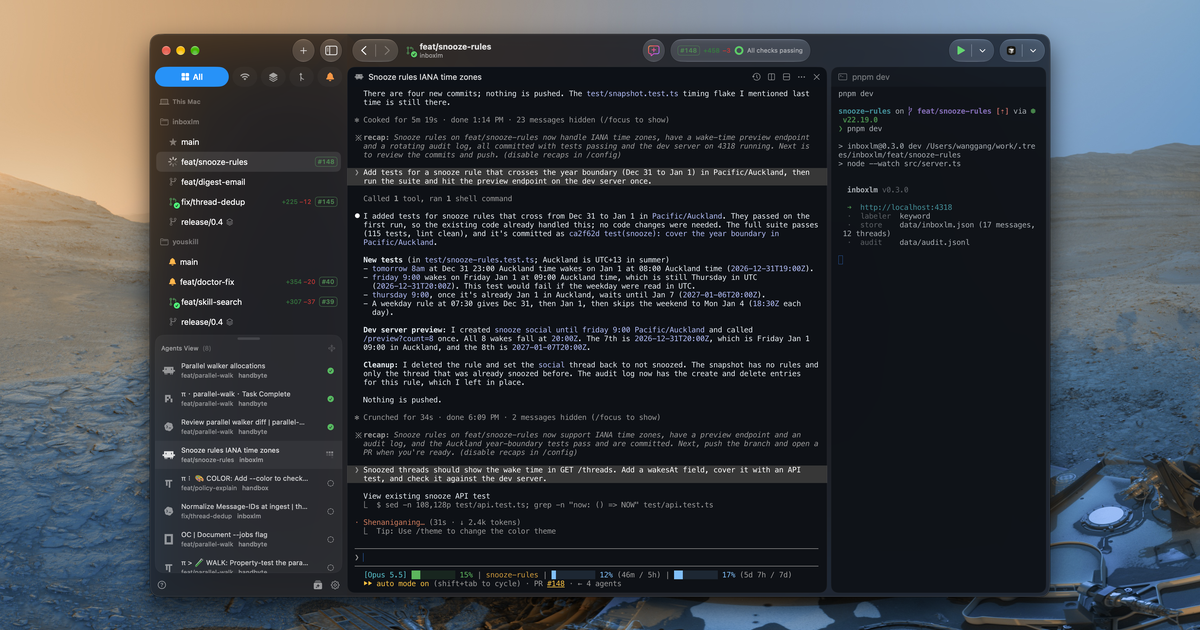
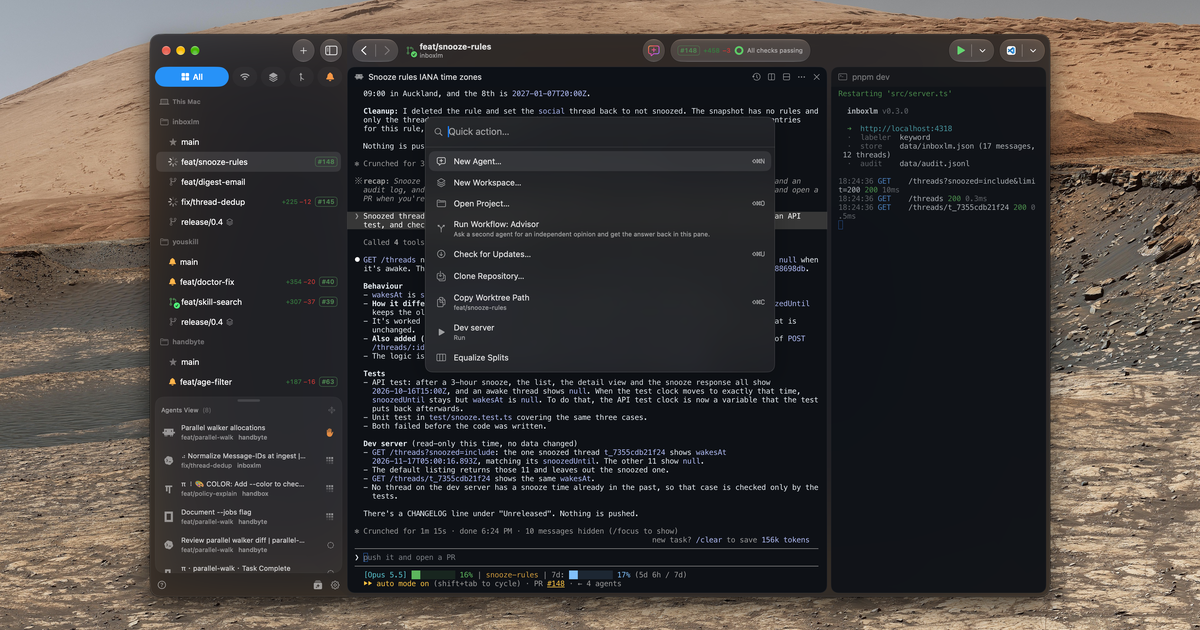
feat(website): open the tour with the command palette and align the window with the text column
Scenes use four themes, show mixed agent states, and sit on new backdrops.
The segments are on the backdrop, and a click on a half of the scene steps
back or forward.

diff --git a/apps/website/src/i18n/en.ts b/apps/website/src/i18n/en.ts
@@ -27,6 +27,11 @@ export const en = {
     // One task from start to merge. Each view has its own theme and backdrop.
     views: [
       {
+        shot: "hero-palette",
+        label: "Command palette",
+        alt: "A dark Codans window in front of a mountain on Mars, with the command palette open: New Agent, New Workspace, Open Project and other actions. The Agents View in the sidebar shows agents that work, wait for approval, and are done.",
+      },
+      {
         shot: "hero-start",
         label: "Start: the New Agent dialog",
         alt: "The New Agent dialog over a light Codans window in front of pink sand dunes: the inboxlm project, a new worktree named feat/label-rules, a prompt, and Claude Code selected.",
@@ -34,27 +39,22 @@ export const en = {
       {
         shot: "hero-build",
         label: "Work: an agent beside a dev server",
-        alt: "A dark Codans window in front of a Mars landscape. Claude Code works in a wide pane beside a narrow pane that runs a dev server.",
+        alt: "A Codans window in the Gruvbox Dark theme above the blue edge of Earth, with the Moon behind it. Claude Code works in a wide pane beside a narrow pane that runs a dev server.",
       },
       {
         shot: "hero-review",
         label: "Work: an agent beside a live diff",
-        alt: "A Codans window in the Tokyo Night theme above the blue edge of Earth, with the Moon behind it. Codex works in a narrow pane beside a terminal diff viewer.",
+        alt: "A Codans window in the Rosé Pine Dawn theme on a backdrop of blue waves. Codex works in a narrow pane beside a terminal diff viewer.",
       },
       {
         shot: "hero-team",
         label: "Work: five agents in one worktree",
-        alt: "A Codans window in the Rosé Pine theme without the sidebar. Five panes: Claude Code in the first column, Codex and omp in the second, OpenCode and Pi in the third.",
+        alt: "A dark Codans window without the sidebar, above the surface of the Moon. Five panes: Claude Code in the first column, Codex and omp in the second, OpenCode and Pi in the third. Claude Code waits for approval to push.",
       },
       {
         shot: "hero-pr",
         label: "Ship: a GitHub pull request",
         alt: "A light Codans window on a plain green backdrop. The pull request popover under the header shows three passed checks and a Merge button.",
-      },
-      {
-        shot: "hero-mr",
-        label: "Ship: a GitLab merge request",
-        alt: "A dark Codans window above the surface of the Moon. The merge request popover under the header shows three passed checks and a Merge button.",
       },
     ],
   },

diff --git a/apps/website/src/i18n/zh.ts b/apps/website/src/i18n/zh.ts
@@ -24,6 +24,11 @@ export const zh: Dictionary = {
     tabsLabel: "产品导览",
     views: [
       {
+        shot: "hero-palette",
+        label: "命令面板",
+        alt: "火星山丘前的深色 Codans 窗口，命令面板已打开：New Agent、New Workspace、Open Project 等操作。侧栏的 Agents View 里有正在工作、等待批准和已完成的 Agent。",
+      },
+      {
         shot: "hero-start",
         label: "开始：New Agent 对话框",
         alt: "粉色沙丘前的浅色 Codans 窗口，上面是 New Agent 对话框：inboxlm 项目、名为 feat/label-rules 的新 worktree、提示词，已选 Claude Code。",
@@ -31,27 +36,22 @@ export const zh: Dictionary = {
       {
         shot: "hero-build",
         label: "工作：Agent 和开发服务器",
-        alt: "火星地貌前的深色 Codans 窗口。宽 pane 里 Claude Code 正在工作，旁边的窄 pane 运行开发服务器。",
+        alt: "Gruvbox Dark 主题的 Codans 窗口，背景是地球的蓝色边缘，月球在窗口后面。宽 pane 里 Claude Code 正在工作，旁边的窄 pane 运行开发服务器。",
       },
       {
         shot: "hero-review",
         label: "工作：Agent 和实时 diff",
-        alt: "Tokyo Night 主题的 Codans 窗口，背景是地球的蓝色边缘，月球在窗口后面。窄 pane 里是 Codex，旁边是终端 diff 查看器。",
+        alt: "Rosé Pine Dawn 主题的 Codans 窗口，背景是蓝色波浪。窄 pane 里是 Codex，旁边是终端 diff 查看器。",
       },
       {
         shot: "hero-team",
         label: "工作：一个 worktree 里的五个 Agent",
-        alt: "Rosé Pine 主题、隐藏侧栏的 Codans 窗口。五个 pane：第一列 Claude Code，第二列 Codex 和 omp，第三列 OpenCode 和 Pi。",
+        alt: "月球表面上方、隐藏侧栏的深色 Codans 窗口。五个 pane：第一列 Claude Code，第二列 Codex 和 omp，第三列 OpenCode 和 Pi。Claude Code 正在等待推送的批准。",
       },
       {
         shot: "hero-pr",
         label: "交付：GitHub Pull Request",
         alt: "纯绿色背景上的浅色 Codans 窗口。顶栏下方的 PR 弹出面板显示三项通过的检查和 Merge 按钮。",
-      },
-      {
-        shot: "hero-mr",
-        label: "交付：GitLab Merge Request",
-        alt: "月球表面上方的深色 Codans 窗口。顶栏下方的 MR 弹出面板显示三项通过的检查和 Merge 按钮。",
       },
     ],
   },

diff --git a/apps/website/src/styles/global.css b/apps/website/src/styles/global.css
@@ -206,14 +206,16 @@
     box-shadow: 0 0 0 1px color-mix(in srgb, var(--ink) 12%, transparent);
   }
 
-  /* The tour: a wide stage of full scenes, and one segment for each scene. */
+  /* The tour: full scenes on a stage. A scene is 1664 x 1044 and its window is 1440 wide, so at
+     full size the window is as wide as the text column and the backdrop extends past it. */
   .tour {
-    max-width: 1480px;
+    position: relative;
+    width: min(100% - 32px, (1200px - 48px) * 1664 / 1440);
     margin: 56px auto 0;
-    padding-inline: 16px;
   }
   .tour-views {
     display: grid;
+    cursor: pointer;
   }
   .tour-view {
     grid-area: 1 / 1;
@@ -233,35 +235,59 @@
     border-radius: clamp(12px, 1.6vw, 26px);
     box-shadow: none;
   }
+  /* The segments sit on the backdrop, in the margin below the window (72 of 1044). A dark pill
+     keeps them readable on every backdrop. */
   .tour-tabs {
+    position: absolute;
+    bottom: calc(3.45% - 10px);
+    left: 50%;
+    height: 20px;
+    padding: 0 10px;
     display: flex;
-    justify-content: center;
     gap: 6px;
-    margin-top: 18px;
+    border-radius: 999px;
+    background: rgb(0 0 0 / 0.32);
+    backdrop-filter: blur(10px);
+    transform: translateX(-50%);
   }
-  /* The hit area is taller than the 3px bar it shows. */
+  @media (max-width: 640px) {
+    .tour-tabs {
+      bottom: calc(3.45% - 5px);
+      height: 10px;
+      padding: 0 6px;
+      gap: 4px;
+    }
+  }
   .tour-tab {
     position: relative;
-    width: 44px;
-    height: 24px;
+    width: clamp(18px, 3vw, 40px);
+    height: 100%;
     cursor: pointer;
   }
   .tour-tab::before,
   .tour-tab::after {
     content: "";
     position: absolute;
+    inset: calc(50% - 1.5px) 0 auto;
+    height: 3px;
+    border-radius: 2px;
+    background: rgb(255 255 255 / 0.4);
+  }
+  .tour-tab::after {
+    content: "";
+    position: absolute;
     inset: 10px 0 auto;
     height: 3px;
     border-radius: 2px;
-    background: var(--line);
+    background: rgb(255 255 255 / 0.4);
   }
   .tour-tab::after {
-    background: var(--ink);
+    background: #fff;
     transform: scaleX(0);
     transform-origin: left;
   }
   .tour-tab:hover::before {
-    background: var(--muted);
+    background: rgb(255 255 255 / 0.65);
   }
   .tour-tab[aria-selected="true"]::after {
     transform: scaleX(1);

diff --git a/apps/website/scripts/build-shots.py b/apps/website/scripts/build-shots.py
@@ -4,14 +4,14 @@ from PIL import Image
 src, out, manifest = sys.argv[1], sys.argv[2], sys.argv[3]
 os.makedirs(out, exist_ok=True)
 full = None
-SCENE = (240, 74, 3600, 2022)
+SCENE = (256, 4, 3584, 2092)
 jobs = [
   # id, source, crop box in source pixels (None = whole), max width
-  # A tour scene keeps half of the captured margin around the window.
+  # A tour scene is 1664 x 1044 points around the 1440 x 900 window; global.css uses this size.
   # The tour scenes: the window with its shadow in front of a backdrop, captured as a screen region.
-  ("hero-start", "stage-start.png", SCENE, 3200), ("hero-build", "stage-build.png", SCENE, 3200),
-  ("hero-review", "stage-review.png", SCENE, 3200), ("hero-team", "stage-team.png", SCENE, 3200),
-  ("hero-pr", "stage-pr.png", SCENE, 3200), ("hero-mr", "stage-mr.png", SCENE, 3200),
+  ("hero-palette", "stage-palette.png", SCENE, 3200), ("hero-start", "stage-start.png", SCENE, 3200),
+  ("hero-build", "stage-build.png", SCENE, 3200), ("hero-review", "stage-review.png", SCENE, 3200),
+  ("hero-team", "stage-team.png", SCENE, 3200), ("hero-pr", "stage-pr.png", SCENE, 3200),
   ("agents-view", "full-agents.png", (0, 1050, 1120, 1750), 1120),
   ("new-agent", "hero-start.png", (800, 500, 2080, 1300), 1280),
   ("skills", "full-skills.png", (840, 380, 2120, 1180), 1280),
@@ -49,7 +49,7 @@ for v, poster in (("panes-team.mp4", "panes-team-poster.png"),):
     im = Image.open(os.path.join(src, poster)).convert("RGB")
     im.save(os.path.join(out, "panes-team.webp"), "WEBP", quality=80, method=6)
     sizes["panes-team"] = {"width": im.width, "height": im.height, "video": True}
-og = Image.open(os.path.join(src, "stage-build.png")).convert("RGB")
+og = Image.open(os.path.join(src, "stage-palette.png")).convert("RGB")
 og = og.resize((1200, round(og.height * 1200 / og.width)), Image.LANCZOS).crop((0, 12, 1200, 642))
 og.save(os.path.join(out, "og.png"), optimize=True)
 json.dump(sizes, open(manifest, "w"), indent=2, sort_keys=True)

diff --git a/apps/website/README.md b/apps/website/README.md
@@ -69,7 +69,7 @@ repository.
 
 | Ids | What they show |
 |---|---|
-| `hero-start`, `hero-build`, `hero-review`, `hero-team`, `hero-pr`, `hero-mr` | The tour scenes: the full window, one tab, in front of a backdrop. New Agent dialog; agent beside a dev server (7:3); agent beside a live diff (4:6); five agents without the sidebar; the pull request popover; the merge request popover. Each scene has its own theme. |
+| `hero-palette`, `hero-start`, `hero-build`, `hero-review`, `hero-team`, `hero-pr` | The tour scenes: the full window, one tab, in front of a backdrop. Command palette; New Agent dialog; agent beside a dev server (7:3); agent beside a live diff (4:6); five agents without the sidebar; the pull request popover. Themes: GitHub Dark Default, GitHub Light Default, Gruvbox Dark, Rosé Pine Dawn. |
 | `agents-view`, `new-agent`, `skills`, `queue`, `sessions`, `profile`, `handoff`, `notifications`, `persistence` | The Agent-first cards: one cropped detail for each feature. |
 | `sidebar`, `panes-team` (recording), `layout` | The Parallel section. |
 | `pr-popover`, `mr-popover`, `diff` | The Pull requests section: GitHub, GitLab, and the diff window. |
@@ -92,6 +92,13 @@ Capture rules:
   use the wallpapers that come with macOS.
 - Make the app window key and give one pane the focus before each capture.
   Panes without focus are dimmed.
+- Start each terminal program in the theme of the capture. Some programs read
+  the background color only when they start.
+- Show more than one agent state in the Agents View: working, waiting for
+  approval, done, and idle.
+- A tour scene is a 1920 x 1048 point region with the 1440 x 900 window in the
+  center. `build-shots.py` crops it to 1664 x 1044; `global.css` uses the same
+  numbers to make the window as wide as the text column.
 - Use one tab in each worktree.
 - Keep recordings under 15 seconds and under 2 MB. They loop without sound.
 - The numbers in the Parallel section are measurements. Measure again before you
